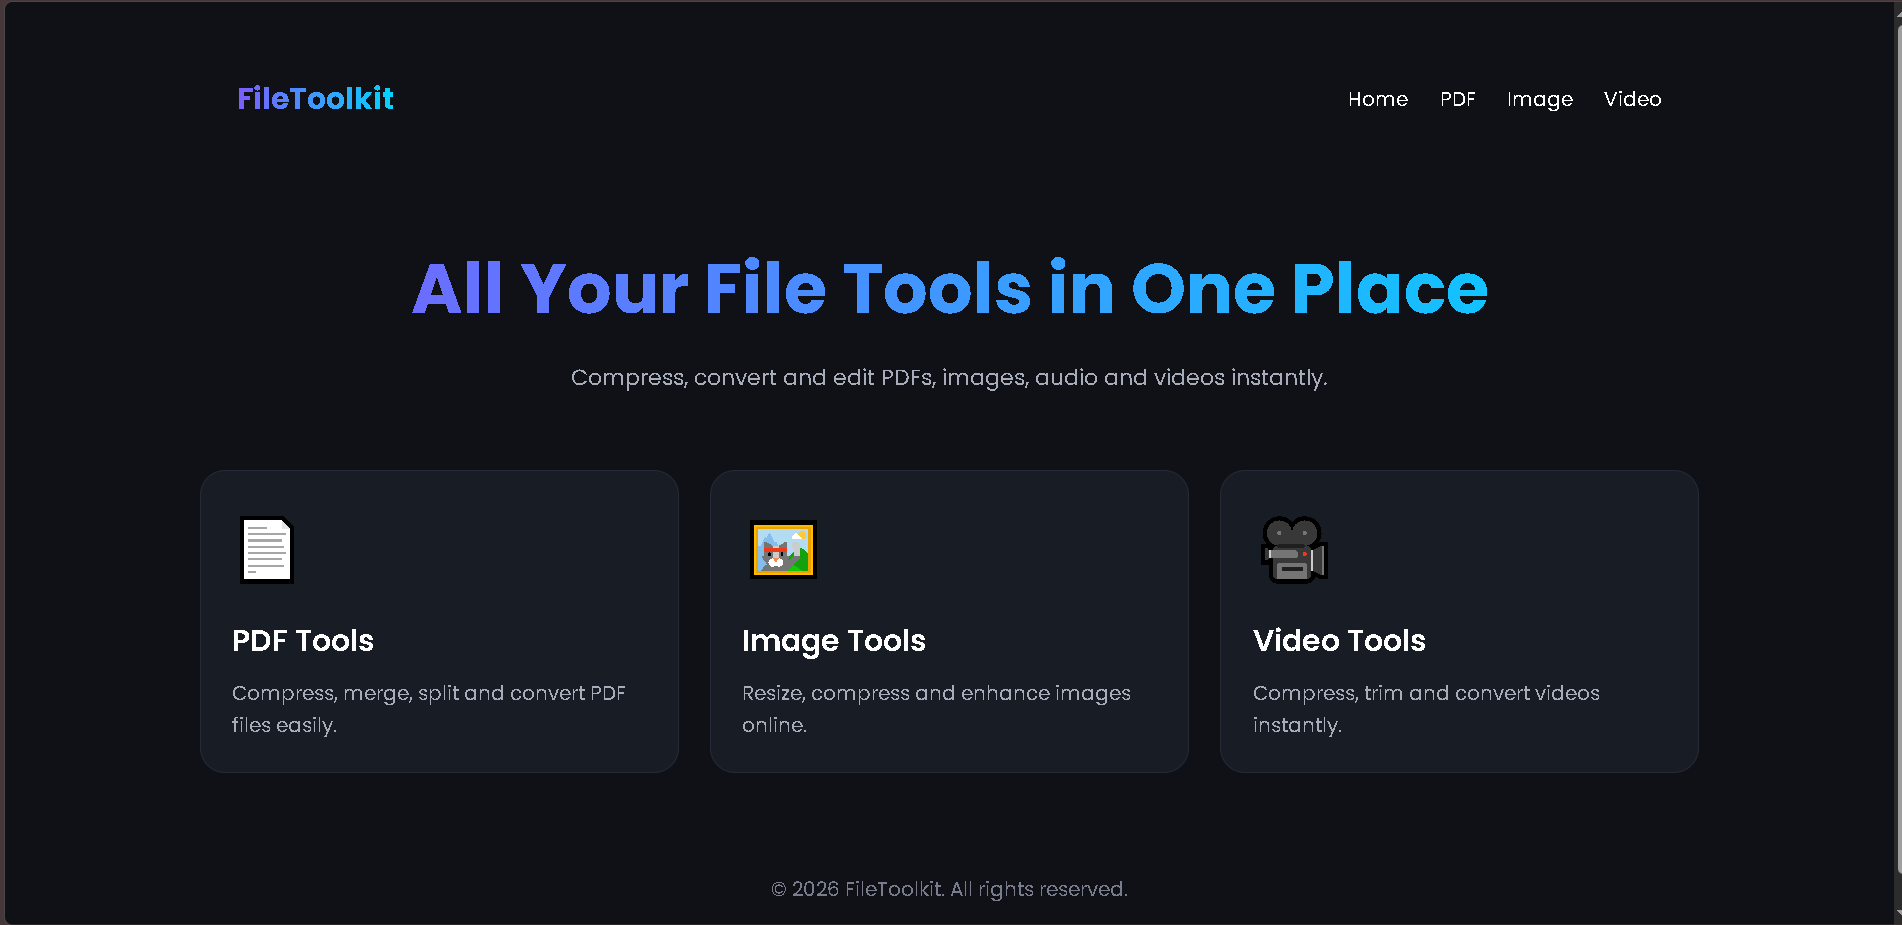
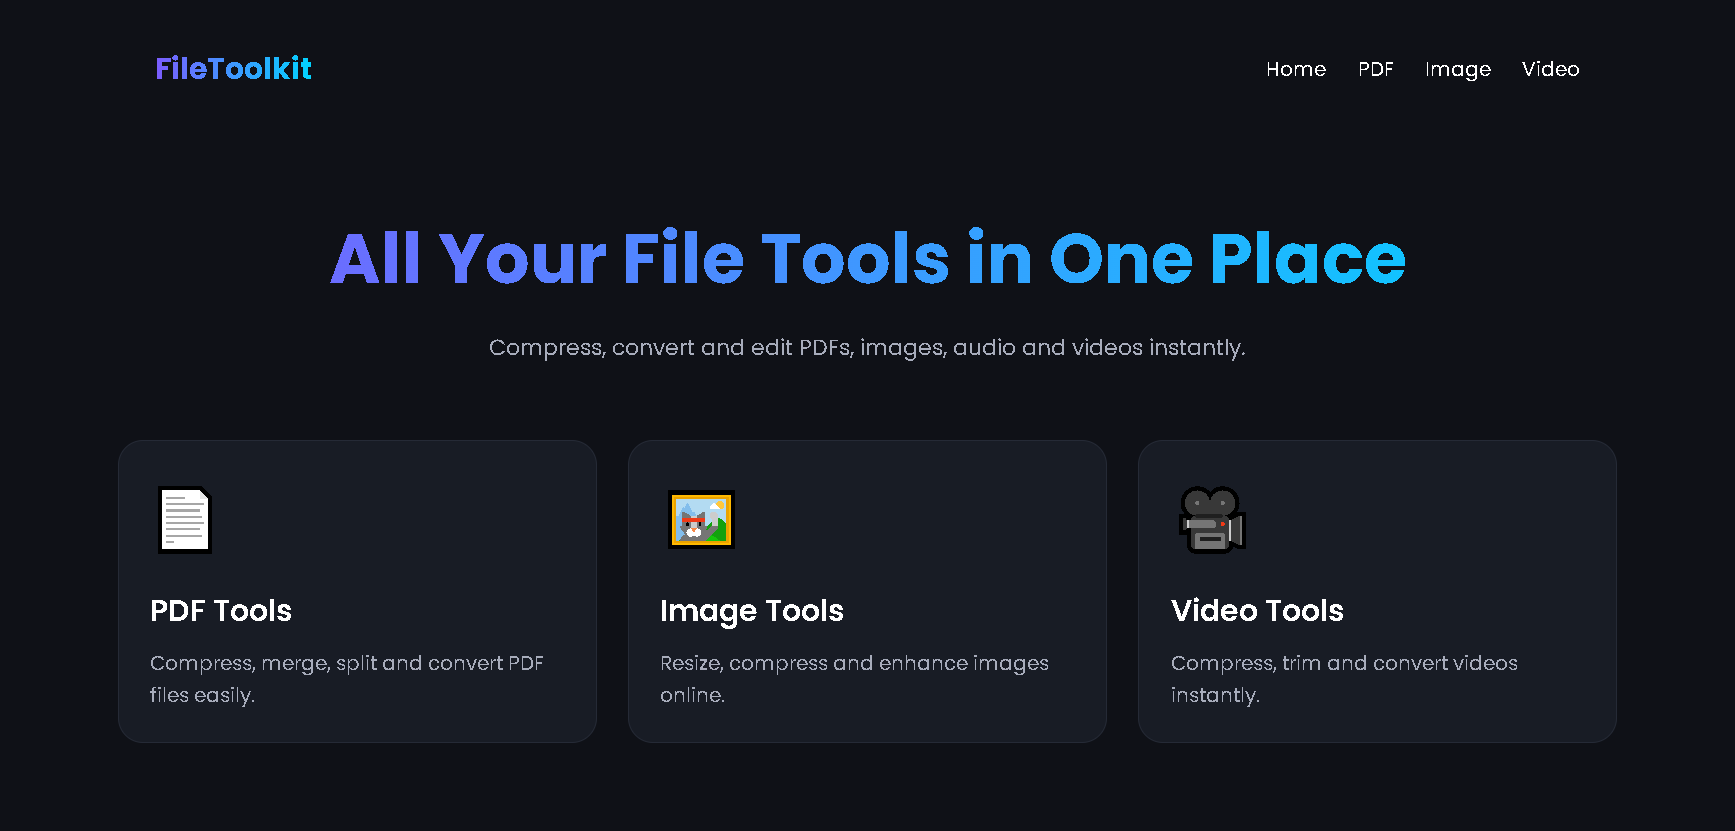
updated web page

diff --git a/css/web.css b/css/web.css
@@ -1,10 +1,46 @@
 /* css/web.css */
 
+/* --- Page Header (Title & Back Button) --- */
+.page-header {
+    max-width: 1100px;
+    margin: 3rem auto 1rem auto; 
+    padding: 0 2rem;
+    display: flex;
+    align-items: center;
+    justify-content: center;
+    position: relative;
+    width: 100%;
+}
+
+.back-btn {
+    position: absolute;
+    left: 2rem; /* Aligns perfectly with the grid's left edge */
+    color: #999999;
+    text-decoration: none;
+    font-size: 1.05rem;
+    font-weight: 600;
+    transition: color 0.2s ease, transform 0.2s ease;
+}
+
+.back-btn:hover {
+    color: #ffffff;
+    transform: translateX(-4px); /* Slight slide to the left on hover */
+}
+
+.page-title {
+    font-size: 2.5rem;
+    font-weight: 700;
+    letter-spacing: -0.04em;
+    color: #ffffff;
+}
+
+/* --- Web Apps Grid --- */
 .web-grid {
     grid-template-columns: repeat(2, 1fr);
     grid-template-rows: auto auto; 
     max-width: 1100px;
     align-items: start; 
+    margin-top: 2rem; /* Overrides the default 4rem gap from style.css */
 }
 
 /* LinkState spans the entire top width */
@@ -31,7 +67,7 @@
 .web-grid .bento-cell {
     padding: 2.5rem 2.5rem 0 2.5rem;
     justify-content: flex-start;
-    overflow: hidden;
+    overflow: hidden; 
 }
 
 .web-grid .cell-content {
@@ -49,27 +85,26 @@
 /* Hidden by default, grows on hover */
 .preview-container {
     width: 100%;
-    max-height: 0; /* Collapsed state */
+    max-height: 0; 
     opacity: 0;
     margin-top: 0;
     border-top-left-radius: 12px;
     border-top-right-radius: 12px;
     overflow: hidden;
-    transition: max-height 0.6s cubic-bezier(0.25, 1, 0.5, 1), opacity 0.3s ease, margin-top 0.4s ease;
+    transition: max-height 0.6s ease-in-out, opacity 0.3s ease, margin-top 0.4s ease;
 }
 
 .preview-img {
     display: block;
     width: 100%;
-    height: auto; /* Lets the image show its full natural height */
-    object-position: top center; 
+    height: auto; 
     opacity: 0.6;
-    transition: opacity 0.3s ease, transform 0.4s cubic-bezier(0.25, 0.8, 0.25, 1);
+    transition: opacity 0.3s ease;
 }
 
 /* Hover States for Expansion */
 .link-cell:hover .preview-container {
-    max-height: 1000px; /* Massive max-height ensures the whole image fits */
+    max-height: 3000px; 
     opacity: 1;
 }
 
@@ -79,7 +114,6 @@
 
 .link-cell:hover .preview-img {
     opacity: 1;
-    transform: scale(1.02); 
 }
 
 /* Mobile Responsiveness */
@@ -92,5 +126,14 @@
     .project-linkstate, .project-bento, .project-file {
         grid-column: 1 / -1;
         grid-row: auto;
+    }
+    
+    .page-header {
+        justify-content: space-between;
+    }
+    
+    .back-btn {
+        position: relative;
+        left: 0;
     }
 }

diff --git a/web.html b/web.html
@@ -9,7 +9,7 @@
 </head>
 <body>
 
-    <!-- Ambient Liquid Background to match homepage colors -->
+    <!-- Ambient Liquid Background -->
     <div class="ambient-blob blob-1"></div>
     <div class="ambient-blob blob-2"></div>
 
@@ -24,6 +24,12 @@
             <li><a href="about.html">About</a></li>
         </ul>
     </nav>
+
+    <!-- New Header Section -->
+    <div class="page-header">
+        <a href="index.html" class="back-btn">&larr; Back</a>
+        <h1 class="page-title">Web Apps</h1>
+    </div>
 
     <main class="bento-grid web-grid">
         
